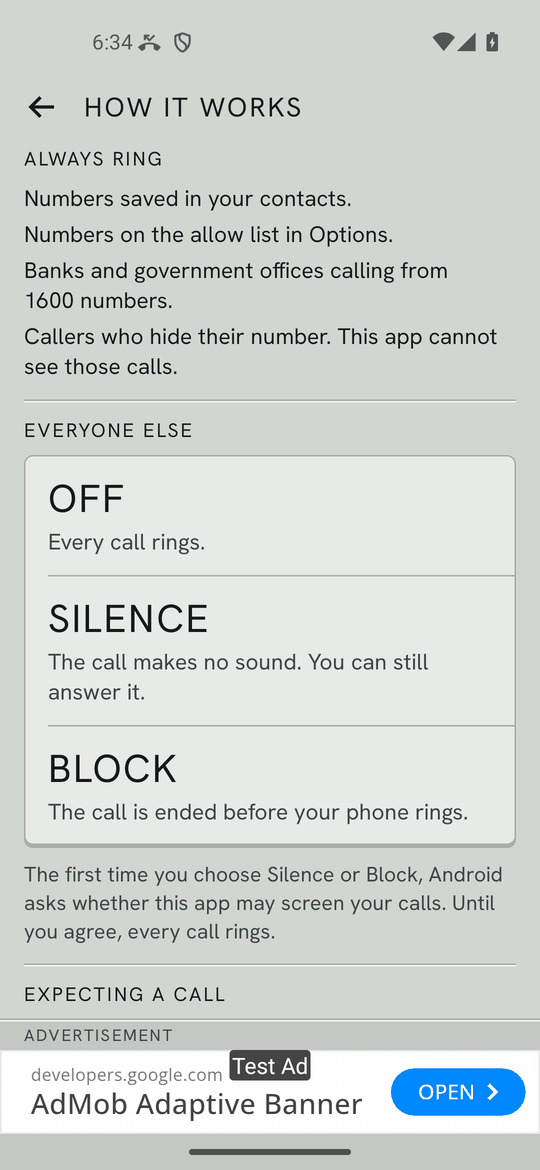
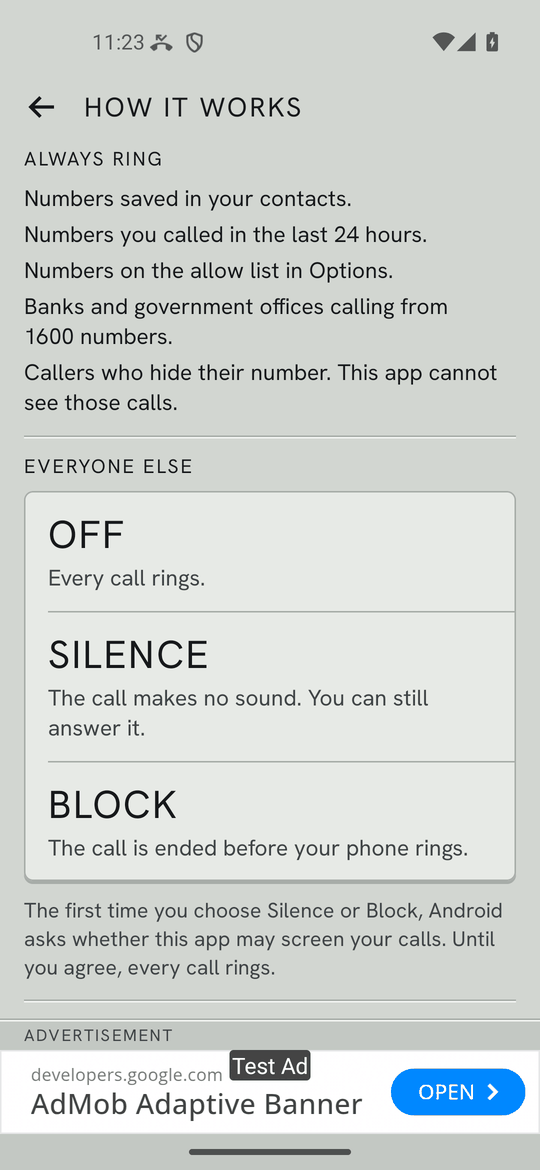
The record after the freemium round: twenty-four checks in one run, and the screens retaken
- docs/verification/emulator-2026-10-05.md is now one run from a wiped app on a clean
  build of main at 48d5f7b, which holds everything built on 5 October. All twenty-four
  checks passed. It replaces that afternoon's eighteen-check report of the same name.
- The screens the round changed are retaken (Home in its six states, Options, Settings,
  How It Works, and the dark ones), and eight are new: Home on Pro, the timer's sheet,
  Home while a timer holds, the schedule, Home in a scheduled hour, Plans, and number
  rules listed and being typed. Every number is made up. The contact sheet is made again.
- The verification index, the feature inventory, the README and the task list say so;
  the design log lists what was built outside the prototype for the next review round.

diff --git a/docs/verification/README.md b/docs/verification/README.md
@@ -17,9 +17,10 @@ export ANDROID_HOME=/opt/homebrew/share/android-commandlinetools
 export PATH="$ANDROID_HOME/platform-tools:$PATH"
 $ANDROID_HOME/emulator/emulator -avd scarlet_phone -no-window -no-audio &
 ./gradlew assembleDebug
-tools/verify_emulator.py          # about twenty-three minutes for all twenty-one checks
+tools/verify_emulator.py          # about thirty-one minutes for all twenty-four checks; check 23 restarts the emulator
 tools/verify_emulator.py --only 16   # one check again, on the app as it is; no report
-                                     # (13 needs a stopped call in the history; 18 removes the settings file)
+                                     # (6 and 13 need a stopped call in the history; 18 removes the settings
+                                     # file; 23 restarts the emulator)
 ```
 
 The script refuses to run against anything that is not an emulator. It wipes the
@@ -49,33 +50,43 @@ for the weekly report it moves the emulator's clock forward and puts it back.
 | 16 | The notification's one action lets the number ring for an hour, and a locked screen shows no number | **passed** |
 | 17 | Deleting one call from its sheet, and Delete All, carry through | **passed** |
 | 18 | How It Works opens by itself until it has been closed once, and again from Settings | **passed** |
-| 19 | A timer holds Block for a while, then the lever's own stop is back | **passed**, in the later run described below |
-| 20 | The schedule blocks in the hours it was given, and a lever move inside them holds until they end | **passed**, in the later run |
-| 21 | Each plan holds what it says: ads on Free only, the timer and the schedule on Pro only | **passed**, in the later run |
-| 22 | A number the user called rings when it calls back, for a day | **passed**, run by itself (below) |
-| 23 | After a call to an emergency number, every call rings for a day | **passed**, run by itself (below) |
-| 24 | A number rule always blocks, or always rings, the numbers that start its way; the longer start wins; Pro only | **passed**, run by itself (below) |
+| 19 | A timer holds Block for a while, then the lever's own stop is back | **passed** |
+| 20 | The schedule blocks in the hours it was given, and a lever move inside them holds until they end | **passed** |
+| 21 | Each plan holds what it says: ads on Free only, the timer and the schedule on Pro only | **passed** |
+| 22 | A number the user called rings when it calls back, for a day | **passed** |
+| 23 | After a call to an emergency number, every call rings for a day | **passed** |
+| 24 | A number rule always blocks, or always rings, the numbers that start its way; the longer start wins; Pro only | **passed** |
 
 ### Which build the results are for
 
-- The table is the run recorded in [`emulator-2026-10-05.md`](emulator-2026-10-05.md), on
-  the build with How It Works, About and the rows hidden until their pages exist (commit
-  `ee13905`). **All eighteen passed.** Check 18 is new: it removes the app's settings
+- **The table is the run recorded in [`emulator-2026-10-05.md`](emulator-2026-10-05.md):**
+  one run from a wiped app, late on 5 October, 31 minutes with the emulator's restart, on a
+  clean build of `main` at commit `48d5f7b`. That build holds everything built that day:
+  the tutorial, the three plans and Pro's three features, call-backs, the pause after an
+  emergency call, and buying through Google Play. **All twenty-four passed.** In this run
+  the ringer for check 22's call back had not started within twelve seconds, which is
+  Telecom's own wait described below; the check goes by Telecom's record that the call was
+  set ringing, and reports the ringer beside it. The file replaces that afternoon's report
+  of the same name, the eighteen-check run on commit `ee13905`, which is in the
+  repository's history. The entries below say what each later check does and what was
+  learnt on the way to it; where one says a report was still to be recorded, this is that
+  report.
+- **Checks 13 and 18 came that afternoon, with the founder's first notes** (the
+  eighteen-check run on commit `ee13905`). Check 18 removes the app's settings
   file, which is what a first launch has, and sees How It Works open by itself, close on
   one press of Back, stay closed on the next launch, and open again from Settings, where
-  its Done key goes back to Settings. Check 13 changed: Contact is tapped on About, and
+  its Done key goes back to Settings. Check 13 changed then: Contact is tapped on About, and
   for each row whose page does not exist yet it reads the switch in `ui/Links.kt` and
   checks that the row is not on screen. One thing learnt on the way: the first attempt
   that day stopped inside check 16, which sets a PIN to read the locked screen and clears
   it again; Android kept its swipe lock up for a moment after the PIN was gone, one
   `wm dismiss-keyguard` missed it, and the app then started behind the lock screen. The
   script now asks, looks at what Android reports and asks again (`unlock`). Checks 1 to 15
-  had passed in that attempt; the recorded run is the complete one after the fix.
-- **Checks 19 to 21 came that evening, with the freemium build** (the commit that adds
-  this paragraph). All twenty-one passed in one run from a wiped app, 23 minutes, on a
-  build of exactly that commit's code. Its report is not the recorded one: the recorded
-  report is made again on the build that ends this round of work, and until then the file
-  named above is still the eighteen-check run. What the three check: 19 sets a timer at
+  had passed in that attempt; the run recorded that afternoon was the complete one after
+  the fix.
+- **Checks 19 to 21 came that evening, with the freemium build.** All twenty-one passed
+  then in one run from a wiped app, 23 minutes, on a build of that change's own code. What
+  the three check: 19 sets a timer at
   Block for 15 minutes with the lever at Silence, sees a caller blocked by the timer's
   rule, moves the clock on 17 minutes and sees the lever's Silence back. 20 sets the
   present hour to Block on the week's grid with the lever at Off, sees the schedule switch
@@ -112,8 +123,7 @@ for the weekly report it moves the emulator's clock forward and puts it back.
 - **A full run from a wiped app on the build with the pause after an emergency call**
   (23 checks, 26 minutes, the restart included) passed 22. The one failure was check 22's
   wait for the ringer, described above; with the check corrected, 22 and 23 passed in order
-  on that change's final build. The recorded report is still to be made on the build that
-  ends this round.
+  on that change's final build.
 - **Check 23 came with the pause after an emergency call** (ADR-008) and passed run by
   itself. **It never dials a real emergency number.** It puts a made-up number on Android's
   own test list (`cmd phone emergency-number-test-mode -a`), asks Android to call it, which
@@ -216,6 +226,18 @@ for the weekly report it moves the emulator's clock forward and puts it back.
   plan shows its price and one key; on No Ads, Pro shows the upgrade's price with the
   sentence about the difference; light at 100% text and dark at 135%. **A purchase has not
   been made anywhere.**
+- **The screens after the freemium round** (late on 5 Oct), at 360 dp, on the build the
+  recorded run was made on, with made-up numbers. Retaken in [`screens/`](screens/): Home
+  on a first launch, at Block, paused, at Off, with the role lost and with notifications
+  refused (`01` to `06`), Options (`07`, and `19` and `20` in dark), Settings (`13`, `28`),
+  Home in dark and in dark with large text (`15`, `16`), and How It Works (`23` to `26`).
+  New: Home on Pro with the Automatic section (`29`), the timer's sheet (`30`), Home while
+  a timer holds Silence over the lever's Block (`31`), the schedule with nights at Block
+  and working hours at Silence (`32`), Home in an hour the schedule has set (`33`), Plans
+  as the emulator shows it, with Google Play not reachable (`34`), and number rules listed
+  and being typed (`35`, `36`). The contact sheet was made again from all thirty-six.
+  History, the number's sheet, the delete dialog, Statistics, the licences, the tile and
+  About did not change and were not retaken.
 - **The test banner** loads into its tray on the home, options, history, statistics and
   settings screens, and the sill says "Advertisement" once it has. Nothing moves when it
   arrives.

diff --git a/docs/verification/emulator-2026-10-05.md b/docs/verification/emulator-2026-10-05.md
@@ -5,8 +5,8 @@ The app's decision is read from the debug build's log; what Android then did is 
 from Telecom's own event log, the system call log and the notification manager.
 
 - Device: `emulator-5554`, `google/sdk_gphone64_arm64/emu64a:16/BE2A.250530.026.D1/13818094:user/release-keys`
-- Build: `app/build/outputs/apk/debug/app-debug.apk` at commit `ee13905`
-- Result: **18 of 18 checks passed**
+- Build: `app/build/outputs/apk/debug/app-debug.apk` at commit `48d5f7b`
+- Result: **24 of 24 checks passed**
 
 ## 1. A non-contact is rejected in Block mode
 
@@ -14,7 +14,7 @@ from Telecom's own event log, the system call log and the notification manager.
 
 - app: decision=[('BLOCK', 'unknown-caller')]
 - telecom: calls still ringing = 0
-- system call log: Row: 256 number=5551110001, type=6, block_reason=1  (type 6 = blocked, block_reason 1 = call screening service)
+- system call log: Row: 555 number=5551110001, type=6, block_reason=1  (type 6 = blocked, block_reason 1 = call screening service)
 
 ## 2. A non-contact rings silently in Silence mode and appears in the system call log
 
@@ -22,8 +22,8 @@ from Telecom's own event log, the system call log and the notification manager.
 
 - app: decision=[('SILENCE', 'unknown-caller')]
 - telecom: call was in state RINGING = True; ringer started = False
-- telecom: 18:21:30.135 - SKIP_RINGING (Silent ringing requested):ICSBC.oSC->CAM.oCER->CAMSM.pM_2002(
-- system call log after the caller hung up: Row: 257 number=5551110002, type=3, block_reason=0  (type 3 = missed)
+- telecom: 22:52:08.347 - SKIP_RINGING (Silent ringing requested):ICSBC.oSC->CAM.oCER->CAMSM.pM_2002(
+- system call log after the caller hung up: Row: 556 number=5551110002, type=3, block_reason=0  (type 3 = missed)
 
 ## 3. A contact rings normally
 
@@ -31,7 +31,7 @@ from Telecom's own event log, the system call log and the notification manager.
 
 - app: the screening service was not invoked (decisions logged = [])
 - telecom: ringer started = True
-- telecom: 18:21:37.356 - FILTERING_COMPLETED ([Allow, logged, notified, contact exists]):TSI.aNIC->CILH.s
+- telecom: 22:52:15.557 - FILTERING_COMPLETED ([Allow, logged, notified, contact exists]):(...->CS.crCo->H
 
 ## 4. The notification appears only when enabled
 
@@ -46,8 +46,8 @@ from Telecom's own event log, the system call log and the notification manager.
 **PASS**
 
 - stored: 4 handled calls; time zone Asia/Kolkata
-- 24-hour: history shows ['18:21', '18:22']: True; entries in the other form: 0; details sheet: ['This call: Today, 18:22, Silenced']
-- 12-hour: history shows ['6:21 PM', '6:22 PM']: True; entries in the other form: 0; details sheet: ['This call: Today, 6:22 PM, Silenced']
+- 24-hour: history shows ['22:51', '22:52']: True; entries in the other form: 0; details sheet: ['This call: Today, 22:52, Silenced']
+- 12-hour: history shows ['10:51 PM', '10:52 PM']: True; entries in the other form: 0; details sheet: ['This call: Today, 10:52 PM, Silenced']
 
 ## 6. A temporary allow lets the number ring until it expires
 
@@ -94,7 +94,7 @@ from Telecom's own event log, the system call log and the notification manager.
 - a 1600 number (a bank, an insurer or a government body), lever at Block: decision=[('ALLOW', 'in-160-service')], ringer started = True
 - a 140 number (a registered telemarketer), lever at Silence, the switch off as installed: decision=[('SILENCE', 'unknown-caller')]
 - the same number once the switch in Options is on: decision=[('BLOCK', 'in-140-promotional')]
-- system call log: Row: 273 number=+911401234567, type=6, block_reason=1  (type 6 = blocked, block_reason 1 = call screening service)
+- system call log: Row: 572 number=+911401234567, type=6, block_reason=1  (type 6 = blocked, block_reason 1 = call screening service)
 
 ## 12. The Quick Settings tile pauses filtering for an hour, and resumes it
 
@@ -150,4 +150,55 @@ from Telecom's own event log, the system call log and the notification manager.
 - settings file removed, app opened: How It Works on screen, Home not yet = True
 - one press of Back: Home = True; the app stopped and opened again: Home, no How It Works = True
 - Settings, How It Works: on screen = True; its Done key: back in Settings = True
+
+## 19. A timer holds Block for a while, then the lever's own stop is back
+
+**PASS**
+
+- Pro, lever at Silence, timer at Block for 15 minutes: Home offers End Timer = True; a non-contact calls: decision=[('BLOCK', 'unknown-caller-on-timer')]
+- clock moved on 17 minutes: End Timer gone = True; the same number: decision=[('SILENCE', 'unknown-caller')]
+
+## 20. The schedule blocks in the hours it was given, and a lever move inside them holds until they end
+
+**PASS**
+
+- Pro, lever at Off, the hour from 23:00 set to Block for every day: the schedule switched itself on = True; a non-contact calls: decision=[('BLOCK', 'unknown-caller-on-schedule')]
+- lever moved to Off inside that hour: decision=[('ALLOW', 'paused')]; Home offers Resume = True; after Resume: decision=[('BLOCK', 'unknown-caller-on-schedule')]
+- clock moved to 00:05, outside the schedule: decision=[('ALLOW', 'off')]
+
+## 21. Each plan holds what it says: ads on Free only, the timer and the schedule on Pro only
+
+**PASS**
+
+- the ad tray is on screen: Free = True, No Ads = False, Pro = False
+- a schedule set on Pro (this hour: Block), lever at Off, a non-contact calls: Pro [('BLOCK', 'unknown-caller-on-schedule')], No Ads [('ALLOW', 'off')], Free [('ALLOW', 'off')]
+- without Pro the Schedule row opens Plans = True, and so does the Timer row = True
+- back on Pro the stored schedule runs again: decision=[('BLOCK', 'unknown-caller-on-schedule')]
+
+## 22. A number the user called rings when it calls back, for a day
+
+**PASS**
+
+- lever at Block, a non-contact calls: decision=[('BLOCK', 'unknown-caller')]
+- the user calls that number (Android showed the app 1 outgoing call), and it calls back: decision=[('ALLOW', 'you-called')]; Telecom set it ringing = True (its ringer started within twelve seconds = False)
+- clock moved on 25 hours, the same number: decision=[('BLOCK', 'unknown-caller')]
+- the switch in Options is on as installed = True; dialled numbers kept: 0 before the call, 1 after; switched off, another number is dialled: numbers kept = 0, and when it calls back: decision=[('BLOCK', 'unknown-caller')]
+- switched back on = True; the first number, dialled a few minutes ago: decision=[('BLOCK', 'unknown-caller')]
+
+## 23. After a call to an emergency number, every call rings for a day
+
+**PASS**
+
+- lever at Block, not paused = True; a made-up number put on Android's test list of emergency numbers is called from Android's own dialer (a request from adb to call it only opened the dialer = True); the app's log for the outgoing call: emergency = ['true']
+- after a restart of the emulator, which ends the emergency callback mode Android had entered: Home offers Resume = True; a non-contact calls: decision=[('ALLOW', 'paused')]; the number called is not kept for call-backs (dialled numbers kept: 0 before, 0 after)
+- clock moved on 25 hours: Resume gone = True; the same number: decision=[('BLOCK', 'unknown-caller')]
+
+## 24. A number rule always blocks, or always rings, the numbers that start its way; the longer start wins; Pro only
+
+**PASS**
+
+- Pro, lever at Silence, two rules typed into Options (rows listed: 1, then 2): numbers that start 555 111, Always Block; the one number 555 111 0026, Always Ring
+- a number that starts 555 111 calls: decision=[('BLOCK', 'number-rule')]; 555 111 0026 calls: decision=[('ALLOW', 'number-rule')]; a number that starts another way: decision=[('SILENCE', 'unknown-caller')]
+- on Free the same first number: decision=[('SILENCE', 'unknown-caller')], and the Number Rules row opens Plans = True; back on Pro: decision=[('BLOCK', 'number-rule')]
+- both rules removed with their rows' buttons (rows left: 0): decision=[('SILENCE', 'unknown-caller')]
 

diff --git a/knowledge-base/docs/05-design-workflow.md b/knowledge-base/docs/05-design-workflow.md
@@ -86,3 +86,4 @@ reference consulted was to be listed in `design/`.
 | 2026-10-05 | **The founder keeps the Switchboard design.** After his first day with the build on his phone he said, on 4 Oct: "The app feels very unnatural. I don't know why. For a newbie, it would feel totally a person won't even won't be able to understand." Claude's reading, for the next round and not adopted: the lever has no equivalent in any phone app, every label is in capitals, and the words are the app's own (Silence, Block, outside your contacts, No exceptions, Allow list) rather than a newcomer's. His call on 5 Oct: "let's stick with this design"; he will bring new feedback. G4 stands, nothing in the prototype changes for this, and the tutorial section logged above stays the planned answer for a newcomer |
 | 2026-10-05 | **Built outside the prototype, at the founder's ask: How It Works and About, and three wordings.** He handed over his notes from two days with the build (`NOTES.md` N-40). How It Works is the tutorial section logged on 4 Oct, built now in the form he asked for ("tutorial section at the start and a feature for tutorial"): it opens by itself until it has been closed once, and from the first row of Settings after that. It uses the parts as they are: the header, sections under engraved rules, a plate like the lever's own with the three stops in the lever's type, and one main key, Done. About is one screen under Settings for the licences and Contact, and for the privacy policy once its page exists; Settings is now How It Works, the summary, About and the build stamp. The wordings: "Pause for" over Home's keys (round 1's "Let every call ring for" was not understood: "What do you mean - let every call ring for?"; the brief's own words were "Pause For"); Home's line at Off without its first sentence ("No account? What? Remove this sentence"); and the summary's one sentence became one for each key, under the keys. **Review notes for round 2:** draw How It Works and About; take Settings' new order and these words as given; the Privacy Policy, Share App and Rate App rows appear only once the pages they open exist. His one note of praise: "History section looks slick" |
 | 2026-10-05 | **Built outside the prototype, at the founder's ask that evening: the Automatic section, the timer's sheet, the Schedule screen, the Plans screen; and the lever's meaning changed** (`NOTES.md` N-42). Home gains a section, Automatic, with two strips: Timer and Schedule. On Pro it sits right under the lever's bay; on the other plans the rows carry the word Pro, lead to Plans, and sit after Options and Notifications, so a row that is for sale never pushes a free one down. The timer is a sheet in the number sheet's idiom: latching keys for where to switch to, then the length, which is the commit. The Schedule is a grid, seven rows of twenty-four hours with a top row for every day, in the hour chart's idiom on a recessed dark track: a blocked hour is a solid unit, a silenced one an outlined unit, an hour set to Off a small ring. Plans is three plates, the user's own marked Yours. **The lever now stands at the mode in effect**, not where the user left it; while a timer or the schedule holds it the lamp is the ring the prototype drew for a pause, and the display has a second line for until when and what follows. A pause therefore moves the handle to Off, which the prototype's paused frame does not show. **Review notes for round 2:** draw all four surfaces and the display's second line; say whether the ring is the right sign for "held for a while"; the every-day row's dot where the days differ; and how the three plans should look when two of them have prices |
+| 2026-10-05 | **Built outside the prototype, later that evening: three more surfaces, all from parts the prototype has** (`NOTES.md` N-43 to N-46). Options gains one strip with a switch, Call-backs, between the 140 strip and Repeat Callers, and a last section, Number Rules: on Pro the allow list's own row, recessed field and two keys over the keyboard, with the caption over the keys saying the start as the app reads it; on the other plans one strip with the word Pro. The Plans screen's plates gain a line for Google Play's price and one key each, and under them a Restore Purchases key with a line for what it found. How It Works gains two sentences and a renamed last section, In Pro. Review notes for round 2: draw these four; and decide whether Home should say why it is paused after a call to an emergency number, which today it does not (`knowledge-base/adr/ADR-008`). `docs/verification/screens/` has them as built (`07`, `29` to `36`) |

diff --git a/FEATURES.md b/FEATURES.md
@@ -32,24 +32,20 @@ page they open exists (F-35, F-38, F-39).
 
 **Where the emulator evidence stands** (details in `docs/verification/README.md`):
 
-- **All eighteen checks passed** in the recorded run of 5 Oct 2026
-  (`docs/verification/emulator-2026-10-05.md`), on the build with How It Works, About and
-  the hidden rows: the done line (checks 1 to 6), the four parity checks (scope, repeat
-  caller, milestone, weekly report), the two differences (11, 12), the five added on
-  4 Oct for what had only been built (13 to 17: share and the links, removing an allow
-  entry, the monthly report, the notification's action and the locked screen, the
-  deletes) and the tutorial (18). The run of 4 Oct (`emulator-2026-10-04.md`) passed its
-  seventeen on the build before; it is the run in which the Privacy Policy, Share App and
-  Rate App rows were on screen and were tapped.
-- **Checks 19 to 21** (the timer, the schedule, what each plan holds) were added with the
-  freemium build that evening. All twenty-one passed on it, in one run from a wiped app;
-  that run's report was not kept as the recorded one, which is made again on the build
-  that ends this round of work.
-- **Check 22** (a number the user called rings when it calls back) came with the call-back
-  rule the same evening and passes on that build, run by itself.
-- **Check 23** (a day's pause after a call to an emergency number) passes run by itself. It
-  calls a made-up number put on Android's own test list, on the emulator only.
-- **Check 24** (number rules) passes run by itself.
+- **All twenty-four checks passed** in the recorded run, late on 5 Oct 2026
+  (`docs/verification/emulator-2026-10-05.md`): one run from a wiped app on a clean build
+  of `main` at commit `48d5f7b`, which holds everything built that day. The done line
+  (checks 1 to 6), the four parity checks (scope, repeat caller, milestone, weekly
+  report), the two differences (11, 12), the five added on 4 Oct for what had only been
+  built (13 to 17: share and the links, removing an allow entry, the monthly report, the
+  notification's action and the locked screen, the deletes), the tutorial (18), the timer,
+  the schedule and what each plan holds (19 to 21), call-backs (22), the pause after an
+  emergency call (23, which calls a made-up number put on Android's own test list, on the
+  emulator only) and number rules (24).
+- The run of 4 Oct (`emulator-2026-10-04.md`) passed its seventeen on the build before the
+  tutorial; it is the run in which the Privacy Policy, Share App and Rate App rows were on
+  screen and were tapped. The eighteen-check run of the afternoon of 5 Oct is in the
+  repository's history under the same file name as the recorded run.
 
 Code paths are under `app/src/main/kotlin/com/cyanharborstudios/callblock/` unless they
 start with `core/`.

diff --git a/TASKS.md b/TASKS.md
@@ -24,6 +24,7 @@ feature-by-feature state is in `FEATURES.md`.
 | 14 | A day's pause after a call to an emergency number (`NOTES.md` N-44, ADR-008): `EmergencyPause` in `core`, `EmergencyCallPause` in the app, a sentence in How It Works; emulator check 23 with a made-up number on Android's test list | done | #27 |
 | 15 | Number rules, Pro's third feature (`NOTES.md` N-45): `NumberRule` and its text form in `core`, the rules about how a number starts ordered by length in `RuleBook`, the section in Options, the plans screen and How It Works; emulator check 24 | done | #28 |
 | 16 | Buying a plan through Google Play (`NOTES.md` N-46, ADR-009): the Play Billing Library, `billing/PlayStore.kt`, prices and Buy keys on the plans screen, Restore Purchases; the product ids and the one new permission pinned by tests. A purchase itself waits for Play Console | done | #29 |
+| 17 | The record after the freemium round: all twenty-four emulator checks in one recorded run on the merged build, the changed screens retaken and eight new ones, the contact sheet made again | done | #30 |
 | 10 | The founder's feedback notes of 4 and 5 October (`NOTES.md` N-40): How It Works, the tutorial section, which opens by itself until it has been closed once and again from Settings; "Pause for" over Home's keys; Home's privacy line without "No account"; Settings reordered, the summary reworded, the licences and Contact under one About row; rows whose pages do not exist yet are hidden; emulator check 18 | done | #22 |
 
 ## Open, in order
@@ -46,7 +47,9 @@ feature-by-feature state is in `FEATURES.md`.
 | 13 | **Whether the release build shrinks.** `app/build.gradle.kts` has had R8 and resource shrinking on for release builds since 2 Oct, and `docs/SECURITY_CHECKLIST.md` asks for a minified release. On 3 Oct, on the first app, the founder said size optimizations need his OK first, after an R8 build opened to a blank screen from Play (falcon, `founder/OPERATING_PRINCIPLES.md`). The two disagree, and it is his call. Nothing is at stake today, since no release build is being made; ask before the first one, and prove whichever he picks on a copy installed from Play | the founder |
 
 Done since the list was written: `tools/verify_emulator.py` to the end on the final build
-(4 Oct 2026, all checks pass; `docs/verification/emulator-2026-10-04.md`).
+(4 Oct 2026, all checks pass; `docs/verification/emulator-2026-10-04.md`), and again late on
+5 Oct 2026 on the build that ended the freemium round (all twenty-four pass;
+`docs/verification/emulator-2026-10-05.md`).
 
 ## Design (opened 3 Oct 2026, gate G4)
 

diff --git a/NOTES.md b/NOTES.md
@@ -632,3 +632,11 @@ has the design; the choices worth a note:
 One thing learnt: a build made right after a thrown-away change was not byte for byte the build
 made before it, though every file inside was the same. A clean build was. So "the same build as
 the one tested" is checked against a clean build.
+
+**N-47 The record after the round.** Late on 5 Oct 2026, with everything above merged: all
+twenty-four emulator checks passed in one run from a wiped app, on a clean build of `main` at
+commit `48d5f7b` (`docs/verification/emulator-2026-10-05.md`); the screens the round changed
+were retaken and eight new ones added, with made-up numbers; the contact sheet was made again.
+Nothing of this round is on the founder's phone: it still runs the build of 18:44 that day, and
+an install there waits for his ask. The next install takes the database from version 1 to 2,
+which has been seen working on the emulator over a database with rows in it.

diff --git a/README.md b/README.md
@@ -18,7 +18,7 @@ session, falcon attached next to this repo.
 
 - 5 October 2026: phase one (feature parity) is built and the Switchboard design is on
   every screen. A native Kotlin app (`core`, a pure Kotlin module with the screening
-  rules, and `app`), 219 unit tests, CI, and all eighteen emulator checks passing. Two of
+  rules, and `app`), 219 unit tests, CI, and all twenty-four emulator checks passing. Two of
   the three differences Play's Repetitive Content rule asks of a rebuild are in: India's
   number series and the Quick Settings tile (below). The founder's first notes from using
   it were acted on that day: a tutorial section, How It Works, which opens by itself until
